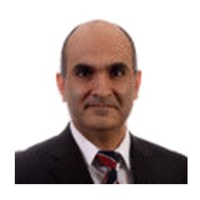
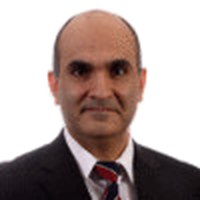
Close each service with a catch-all, and fix three audit findings
Every highlight list now ends with "Other services on request", so the
named items read as examples of what a service covers rather than its
full extent. All four tabs still clear one screen at 1536x695.

Three defects from the review of the last batch:

The Company paragraph opened "Kestridge AI is a technology company based
in Illinois", repeating the H2 directly above it, which already says
"A United States technology company". The review document highlighted
that whole sentence, not just the preposition. It now reads "Kestridge
AI is based in Illinois", matching the FAQ answer two sections down.
The footer keeps the longer form: nothing above it makes the claim.

Faig's portrait was framed larger than its own source, so the crop ran
past the edge of the photo and the source rectangle showed up as a hard
horizontal cut through the avatar circle, with white beneath it. The
crop is now clamped inside the source on both axes. Measured on the
output, the straight edge across the lower frame drops from 171 of 200
columns to 8, which is collar detail rather than a cut.

The contact form minted its DOM ids from the field names, so its Company
input took id="company", which the Company section already owns. The
section wins on tree order and is not labelable, so that label named
nothing and the input's only accessible name was a placeholder that
vanishes on first keystroke. Form ids are namespaced with a contact-
[…]

diff --git a/src/components/sections/Contact.tsx b/src/components/sections/Contact.tsx
@@ -305,15 +305,15 @@ export function Contact() {
 
                     {/* Service select */}
                     <div className="flex flex-col gap-2">
-                      <Label htmlFor="service">Service area</Label>
+                      <Label htmlFor="contact-service">Service area</Label>
                       <div className="relative">
                         <select
-                          id="service"
+                          id="contact-service"
                           name="service"
                           value={service}
                           onChange={(e) => setService(e.target.value)}
                           aria-invalid={!!errors.service}
-                          aria-describedby={errors.service ? "service-error" : undefined}
+                          aria-describedby={errors.service ? "contact-service-error" : undefined}
                           className={`peer w-full appearance-none rounded-xl border bg-bg-soft px-4 py-3.5 text-[0.9412rem] text-ink outline-none transition-colors duration-200 focus-visible:border-accent focus-visible:ring-2 focus-visible:ring-accent ${
                             service ? "text-ink" : "text-faint"
                           } ${errors.service ? "border-red-500/70" : "border-line"}`}
@@ -330,26 +330,26 @@ export function Contact() {
                         <ChevronDown className="pointer-events-none absolute right-4 top-1/2 h-4 w-4 -translate-y-1/2 text-faint peer-focus:text-accent" />
                       </div>
                       {errors.service && (
-                        <ErrorText id="service-error">{errors.service}</ErrorText>
+                        <ErrorText id="contact-service-error">{errors.service}</ErrorText>
                       )}
                     </div>
 
                     {/* Message */}
                     <div className="flex flex-col gap-2">
-                      <Label htmlFor="message">Description of the work</Label>
+                      <Label htmlFor="contact-message">Description of the work</Label>
                       <textarea
-                        id="message"
+                        id="contact-message"
                         name="message"
                         rows={3}
                         placeholder="A short description of the work and the systems involved."
                         aria-invalid={!!errors.message}
-                        aria-describedby={errors.message ? "message-error" : undefined}
+                        aria-describedby={errors.message ? "contact-message-error" : undefined}
                         className={`w-full resize-none rounded-xl border bg-bg-soft px-4 py-3.5 text-[0.9412rem] text-ink outline-none transition-colors duration-200 placeholder:text-faint focus-visible:border-accent focus-visible:ring-2 focus-visible:ring-accent ${
                           errors.message ? "border-red-500/70" : "border-line"
                         }`}
                       />
                       {errors.message && (
-                        <ErrorText id="message-error">{errors.message}</ErrorText>
+                        <ErrorText id="contact-message-error">{errors.message}</ErrorText>
                       )}
                     </div>
 
@@ -455,7 +455,7 @@ function Field({
   return (
     <div className="flex flex-col gap-2">
       <span className="flex items-center justify-between">
-        <Label htmlFor={name}>{label}</Label>
+        <Label htmlFor={`contact-${name}`}>{label}</Label>
         {optional && (
           <span className="font-mono text-[0.6176rem] uppercase tracking-wider text-faint">
             optional
@@ -463,19 +463,19 @@ function Field({
         )}
       </span>
       <input
-        id={name}
+        id={`contact-${name}`}
         name={name}
         type={type}
         placeholder={placeholder}
         required={required}
         autoComplete={autoComplete}
         aria-invalid={!!error}
-        aria-describedby={error ? `${name}-error` : undefined}
+        aria-describedby={error ? `contact-${name}-error` : undefined}
         className={`w-full rounded-xl border bg-bg-soft px-4 py-3.5 text-[0.9412rem] text-ink outline-none transition-colors duration-200 placeholder:text-faint focus-visible:border-accent focus-visible:ring-2 focus-visible:ring-accent ${
           error ? "border-red-500/70" : "border-line"
         }`}
       />
-      {error && <ErrorText id={`${name}-error`}>{error}</ErrorText>}
+      {error && <ErrorText id={`contact-${name}-error`}>{error}</ErrorText>}
     </div>
   );
 }

diff --git a/src/data/services.ts b/src/data/services.ts
@@ -57,6 +57,7 @@ export const services: Service[] = [
       "Machine learning",
       "Agentic AI and generative AI",
       "Deep learning",
+      "Other services on request",
     ],
     steps: [CONSULT, DESIGN, BUILD, DELIVER],
   },
@@ -75,6 +76,7 @@ export const services: Service[] = [
       "Report generation",
       "Reminders and follow-ups",
       "Data entry from forms and emails",
+      "Other services on request",
     ],
     steps: [CONSULT, DESIGN, BUILD, DELIVER],
   },
@@ -93,6 +95,7 @@ export const services: Service[] = [
       "Configuration audits",
       "Remediation",
       "Staff training and certification preparation",
+      "Other services on request",
     ],
     steps: [
       {
@@ -130,6 +133,7 @@ export const services: Service[] = [
       "Data cleanup and checks",
       "Management dashboards",
       "Scheduled reports",
+      "Other services on request",
     ],
     steps: [CONSULT, DESIGN, BUILD, DELIVER],
   },

diff --git a/src/components/sections/Company.tsx b/src/components/sections/Company.tsx
@@ -45,9 +45,8 @@ export function Company() {
             <div className="flex flex-col gap-5 text-pretty text-[1.0294rem] leading-relaxed text-muted">
               <Reveal>
                 <p>
-                  Kestridge AI is a technology company based in Illinois. We work
-                  in four areas: AI solutions, automation, IT security, and data
-                  analytics.
+                  Kestridge AI is based in Illinois. We work in four areas: AI
+                  solutions, automation, IT security, and data analytics.
                 </p>
               </Reveal>
             </div>
